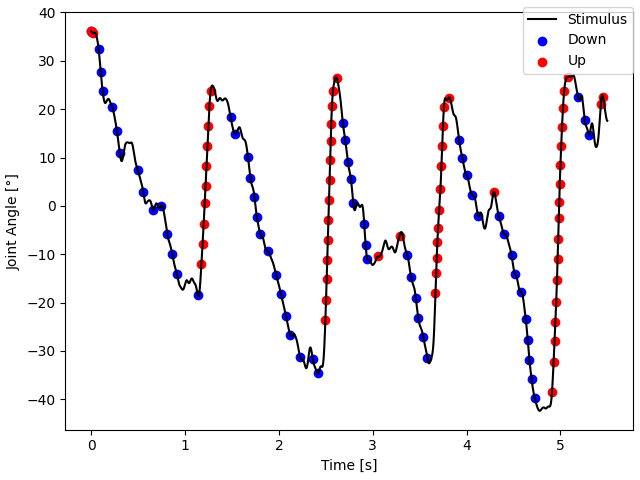
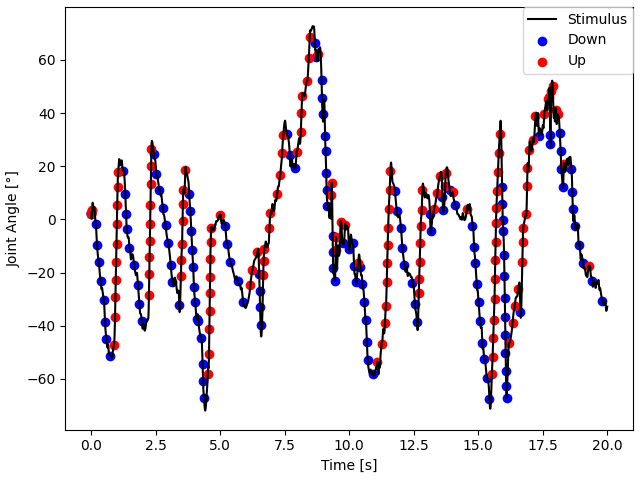
-

diff --git a/Test.py b/Test.py
@@ -1,0 +1,111 @@
+import numpy as np
+
+from functions import *
+from dictionaries import Parameters
+import matplotlib.pyplot as plt
+from class_primitive_neuron import LIF_primitive
+from scipy import signal
+
+N_simulations = 1
+parameters = Parameters(t_total=20, dt=0.001)
+i = 0
+primitive_list = pickle_open('Data/primitive_list')
+joint_angles_list = pickle_open('Data/joint_angles_list')
+data = pickle_open('Data/simulation_data')
+w_pos = [14e-3, 0, 12e-3, 10e-3, 7.5e-3]
+w_vel = [12e-3, 14.5e-3, 0, 11e-3, 12e-3]
+_, synapse_type, weights_primitive, primitive_filter_2, primitive_filter = get_encoding(w_pos, w_vel)
+correlation_pos, correlation_neg = np.zeros((360, N_simulations)), np.zeros((360, N_simulations))
+permutations = get_primitive_indexes(6)
+
+N_legs = 6
+true_positive, false_positive, true_negative, false_negative = [np.empty((N_simulations, 360)) for _ in range(4)]
+
+joint_angles, spike_primitive = joint_angles_list[0], primitive_list[0]
+ground_truth, ground_vel, ground_pos = [np.zeros([parameters.general['N_steps'], i]) for i in [360, 36, 36]]
+N_joints = joint_angles.shape[1]
+
+for i in range(N_joints):
+    mid = np.max(joint_angles[:, i]) / 2 + np.min(joint_angles[:, i]) / 2
+    diff = np.diff(joint_angles[:, i])
+    ground_vel[np.where(diff < 0), 0 + 2 * i] = 1
+    ground_vel[np.where(diff > 0), 1 + 2 * i] = 1
+    ground_pos[np.where(joint_angles[:, i] < mid), 0 + 2 * i] = 1
+    ground_pos[np.where(joint_angles[:, i] > mid), 1 + 2 * i] = 1
+
+for j in range(parameters.general['N_steps']):
+    ground_truth_2 = prepare_spikes_primitive(torch.from_numpy(ground_vel[j, :]), torch.from_numpy(ground_pos[j, :]),
+                                              permutations, primitive_filter) + primitive_filter_2
+    ground_truth_2 = torch.sum(ground_truth_2, dim=1)
+    ground_truth[j, ground_truth_2 > 2.9] = 1
+    ground_truth[j, ground_truth_2 < 2.9] = 0
+
+
+for i in range(N_simulations):
+    pitch = np.array(data[f'simulation_{1}'][2][1, :])
+    spike_primitive = ground_truth
+    pitch = pitch[:parameters.general['N_frames']]
+    pitch = interpolate(pitch, parameters.general['t_total'], parameters.general['N_steps'])
+
+
+    for j in range(360):
+        spikes = spike_primitive[:, j]
+        correlation = spikes*pitch/(np.sum(spikes)+1)
+        #correlation = spikes * pitch
+
+        correlation_pos[j, i] = np.mean(correlation)
+
+
+#weights = np.ndarray.flatten((correlation_pos-correlation_neg)/(correlation_pos+correlation_neg))
+
+weights = np.ndarray.flatten(np.mean(correlation_pos, axis=1))
+weights = normalize(weights)
+colors = ['blue', 'black', 'green', 'yellow', 'orange']
+
+
+for j in range(360):
+    #plt.scatter(np.full(2, j), [np.max(weights[j]), np.min(weights[j])], color=colors[synapse_type[j]], s=2)
+    #plt.plot(np.full(2, j), [np.max(weights[j]), np.min(weights[j])], color=colors[synapse_type[j]], linewidth=1)
+    plt.scatter(j, np.mean(weights[j]), color=colors[synapse_type[j]], s=10)
+    #plt.scatter(np.full(20, j), weights[j], color=colors[synapse_type[j]], s=2)
+
+for i in [0, 60, 120, 180, 240, 300, 360]:
+    plt.plot([i, i], [-0.5, 0.5], linestyle='dotted', color='black')
+plt.show()
+
+
+weights = np.nan_to_num(weights)
+pickle_save(weights, 'Data/weights_pitch')
+pickle_save(ground_truth, 'Data/ground_truth')
+
+weights = pickle_open('Data/weights_pitch')
+ground_truth = pickle_open('Data/ground_truth')
+weights = np.nan_to_num(weights)
+
+parameters.posture['w'] = weights/5000
+parameters.posture['tau'] = 50e-3
+posture_neuron = define_and_initialize(LIF_primitive, parameters.posture)
+
+spike_primitive = primitive_list[0]
+spike_posture, voltage, time = np.empty(parameters.general['N_steps']), np.empty(parameters.general['N_steps']), np.array([])
+
+fig, ax3 = plt.subplots()
+ax4 = ax3.twinx()
+
+for i in tqdm(range(parameters.general['N_steps'])):
+    time = np.append(time, i * parameters.general['dt'])
+    voltage[i], spike_posture[i] = posture_neuron.forward(torch.from_numpy(ground_truth[i, :]))
+    #print(torch.from_numpy(ground_truth[i, :]))
+
+
+#firing_rate, spikes_index = get_firing_rate(spike_posture, parameters.general['dt'])
+firing_rate = get_firing_rate_2(spike_posture, parameters.general['dt'], 0.25)
+difference = np.mean(np.absolute(normalize(firing_rate) - normalize(pitch)))
+fig.text(0.65, 0.85, difference)
+ax3.plot(time, firing_rate, color='b')
+#plt.plot(time, spike_posture)
+#ax3.plot(time, voltage)
+ax4.plot(time, pitch, color='r')
+fig.legend(['model', 'ground_truth'])
+plt.show()
+

diff --git a/run_full_network.py b/run_full_network.py
@@ -7,7 +7,7 @@ from class_hair_field import HairField
 from plots import *
 from functions import *
 
-N_simulations = 20
+N_simulations = 12
 w_pos = [14e-3, 0, 12e-3, 10e-3, 7.5e-3]
 w_vel = [12e-3, 14.5e-3, 0, 11e-3, 12e-3]
 _, synapse_type, weights_primitive, primitive_filter_2, primitive_filter = get_encoding(w_pos, w_vel)
@@ -20,7 +20,7 @@ for k in tqdm(range(N_simulations), desc='Network progress'):
     joint_angles = np.array(data[f'simulation_{k}'][0]).T
 
     parameters = Parameters(max_joint_angle=np.amax(joint_angles, axis=0), min_joint_angle=np.amin(joint_angles, axis=0),
-                            n_hairs=20, t_total=5.5, dt=0.001, n_angles=18)
+                            n_hairs=20, t_total=20, dt=0.001, n_angles=18)
     parameters.primitive['w'] = weights_primitive
 
     N_frames = parameters.general['N_frames']
@@ -64,6 +64,7 @@ for k in tqdm(range(N_simulations), desc='Network progress'):
     primitive_list.append(spike_primitive.numpy()), joint_angles_list.append(joint_angles)
 
 pickle_save(primitive_list, 'Data/primitive_list')
+pickle_save(joint_angles_list, 'Data/joint_angles_list')
 
 
 '''
@@ -189,75 +190,3 @@ for m in tqdm(range(6), desc='PSTH plot progress'):
         ax.scatter(np.linspace(.525, 1.5, num=20), stance_bin_likelihood[i, :], color='blue', marker='^')
 
         plot_psth(ax, fig, i, m)
-
-'''
-Body pitch estimation
-'''
-'''
-tau = [50e-3, 100e-3, 250e-3, 500e-3, 750e-3, 1000e-3, 1500e-3, 2000e-3, 2500e-3]
-
-def lowpass(x,dt,tau):
-    y = np.zeros(len(x))
-    alpha = dt/(dt+tau)
-    y[0] = alpha * x[0]
-    for i in np.arange(1,len(x),1):
-        y[i] = alpha * x[i] + (1-alpha) * y[i-1]
-    return y
-
-
-def highpass(x, dt, tau):
-    y = np.zeros(len(x))
-    alpha = dt/(dt+tau)
-    y[0] = x[0]
-    for i in np.arange(1,len(x),1):
-        y[i] = alpha*(y[i-1] + x[i] - x[i-1])
-    return y
-
-from sklearn.model_selection import train_test_split
-from sklearn.linear_model import SGDRegressor as SGD
-from sklearn.preprocessing import StandardScaler
-
-pitch_list = []
-for i in range(N_simulations):
-    pitch = np.array(data[f'simulation_{i}'][2])
-    pitch = pitch[:parameters.general['N_frames']]
-    pitch = interpolate(pitch, parameters.general['t_total'], parameters.general['N_steps'])
-    pitch_list.append(pitch)
-
-
-for i in range(len(primitive_list)):
-    for j in range(360):
-        primitive_list[i][:, j] = highpass(primitive_list[i][:, j], parameters.general['dt'], tau=500e-3)
-
-model = SGD(alpha=0.0, max_iter=10000, verbose=100)
-
-x_train, x_test, y_train, y_test = train_test_split(primitive_list, pitch_list, test_size=0.1, random_state=42)
-
-scaler = StandardScaler()
-scaler.fit(np.vstack(x_train))
-
-x_train = scaler.transform(np.vstack(x_train))
-x_test = scaler.transform(np.vstack(x_test))
-y_train = np.hstack(y_train)
-y_test = np.hstack(y_test)
-
-model.fit(x_train, y_train)
-score_train = model.score(x_train, y_train)
-score_test = model.score(x_test, y_test)
-
-print(score_train, score_test)
-
-y_predicted = model.predict(x_test[:parameters.general['N_steps'], :])
-
-plt.plot(range(parameters.general['N_steps']), y_predicted, y_test[:parameters.general['N_steps']])
-plt.show()
-'''
-
-'''
-Body pitch weight estimation
-'''
-
-
-
-spike_primitive = primitive_list[0]
-

diff --git a/run_regression.py b/run_regression.py
@@ -1,0 +1,59 @@
+from sklearn.model_selection import train_test_split
+from sklearn.linear_model import SGDRegressor as SGD
+from sklearn.preprocessing import StandardScaler
+from functions import *
+import numpy as np
+from dictionaries import Parameters
+
+primitive_list = pickle_open('Data/primitive_list')
+data = pickle_open('Data/simulation_data')
+N_simulations = len(primitive_list)
+parameters = Parameters(t_total=20, dt=0.001)
+tau = [50e-3, 100e-3, 250e-3, 500e-3, 750e-3, 1000e-3, 1500e-3, 2000e-3, 2500e-3]
+tau = [750e-3]
+
+test, train = [], []
+for t in tqdm(tau):
+    primitive_list = pickle_open('Data/primitive_list')
+    pitch_list = []
+    for i in range(N_simulations):
+        pitch = np.array(data[f'simulation_{i}'][2][1, :])
+        pitch = pitch[:parameters.general['N_frames']]
+        pitch_list.append(pitch)
+
+    for i in range(N_simulations):
+        primitive_list[i] = convert_to_bins(primitive_list[i], parameters.general['N_frames']).astype(float)
+        for j in range(360):
+            primitive_list[i][:, j] = low_pass_filter(primitive_list[i][:, j], 1/200, tau=t)
+
+    model = SGD(alpha=0.000, max_iter=10000, verbose=100)
+
+    x_train, x_test, y_train, y_test = train_test_split(primitive_list, pitch_list, test_size=0.1, random_state=42)
+
+    scaler = StandardScaler()
+    scaler.fit(np.vstack(primitive_list))
+
+    x_train = scaler.transform(np.vstack(x_train))
+    x_test = scaler.transform(np.vstack(x_test))
+
+    y_train = np.hstack(y_train)
+    y_test = np.hstack(y_test)
+
+    model.fit(x_train, y_train)
+    score_train = model.score(x_train, y_train)
+    score_test = model.score(x_test, y_test)
+
+    train.append(score_train)
+    test.append(score_test)
+
+    print(score_train, score_test)
+
+    y_predicted = model.predict(x_test)
+
+plt.scatter(tau, train)
+plt.scatter(tau, test)
+plt.show()
+
+plt.plot(range(y_predicted.size), gaussian_filter(y_predicted))
+plt.plot(range(y_predicted.size), y_test)
+plt.show()

diff --git a/file_importer.py b/file_importer.py
@@ -8,12 +8,12 @@ else:
     path = "/home/s3488926/Documents/master_project/drive/Kinematic_Data"
     print("Linux path used")
 
-t_total = 6
+t_total = 20
 N_frames = 200*t_total
 data = {}
 i = 0
 legs = ['R1', 'R2', 'R3', 'L1', 'L2', 'L3']
-steps = '_00_'
+steps = '_48_'
 
 animals_list = os.listdir(path)
 for animal in animals_list:
@@ -33,7 +33,7 @@ for animal in animals_list:
                     change_index = np.where(gait[:-1] != gait[1:])[0]
                     N[j] = int(change_index.size / 2) - 1
                 gait = np.ndarray.flatten(np.array([simulation_file['gait'][0][0][0][:, 0]]))
-                if gait.size > N_frames and np.min(N) > 1 and '_00_' in file_path:
+                if gait.size > N_frames and np.min(N) > 1 and steps in file_path:
                     for leg in range(6):
                         for joint in range(3):
                             if joint == 1:
@@ -49,7 +49,7 @@ for animal in animals_list:
                     data[f"simulation_{i}"] = [joint_angles, gaits, pitch]
                     i += 1
                 else:
-                    print(f'[1. skipped file: N = {np.min(N)}, gait size, N_frames = {gait.size, N_frames}, _00_ in {steps in file_path}]')
+                    print(f'[1. skipped file: N = {np.min(N)}, gait size, N_frames = {gait.size, N_frames}, {steps} in {steps in file_path}]')
             except:
                 print(f'[2. Skipped file: unhealthy stick insect]')
 

diff --git a/functions.py b/functions.py
@@ -206,3 +206,22 @@ def high_pass_filter(x, dt, tau):
         y[i] = alpha*(y[i-1] + x[i] - x[i-1])
 
     return y
+
+
+def normalize(x, maximum=False, minimum=False, t_0=0, t_1=1):
+    if not maximum:
+        y = (x-np.min(x))/(np.max(x) - np.min(x))*(t_1-t_0)+t_0
+    else:
+        y = (x - maximum) / (maximum - minimum)*(t_1-t_0)+t_0
+
+    return y
+
+
+def get_firing_rate_2(spike_train, dt, t, sigma=5):
+    n = int(t/dt)
+    firing_rate = np.empty(spike_train.shape)
+    for i in range(n, spike_train.size-n):
+        firing_rate[n + i] = np.sum(spike_train[i:i+n])
+    firing_rate[firing_rate < 2] = np.mean(firing_rate)
+    firing_rate = gaussian_filter(firing_rate, sigma)
+    return firing_rate

diff --git a/dictionaries.py b/dictionaries.py
@@ -22,3 +22,6 @@ class Parameters:
 
         self.primitive = {'tau': 50e-3, 'V_T': -50e-3, 'V_R': -70e-3, 'n': 360, 'w': 0,
                           'N_input': 3, 'dt': dt, 'refrac': 0}
+
+        self.posture = {'tau': 50e-3, 'V_T': -50e-3, 'V_R': -70e-3, 'n': 1, 'w': 0,
+                          'N_input': 360, 'dt': dt, 'refrac': 0}

diff --git a/class_primitive_neuron.py b/class_primitive_neuron.py
@@ -74,7 +74,7 @@ class LIF_primitive(nn.Module):
         I = self.state.I
 
         V += self.dt*(self.V_R-V)/self.tau
-        V += torch.sum(w*input, dim=1)
+        V += torch.sum(w*input, dim=-1)
 
         spk = activation(V - self.V_T)
         count_refr = self.refr*spk + (1-spk)*(count_refr-1)
